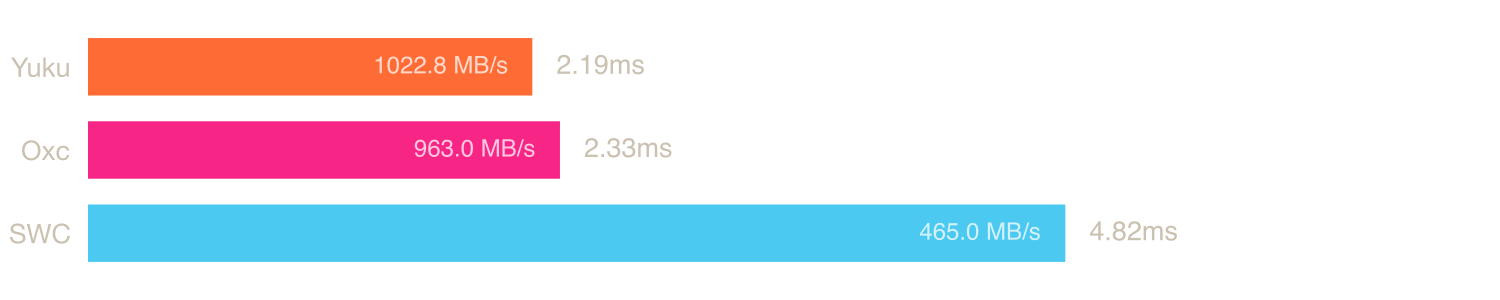
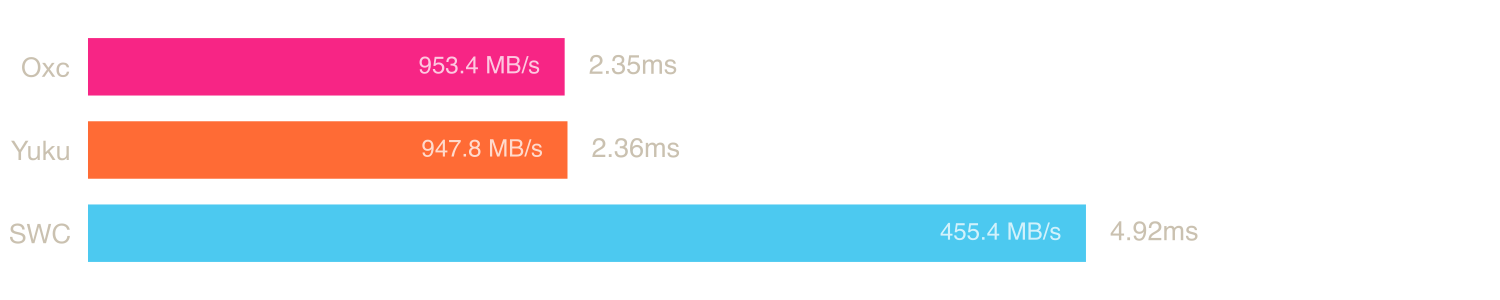
update parsers

Changed region(s): [[0.0, 0.39, 0.46, 0.6], [0.0, 0.12, 0.46, 0.33], [0.6133, 0.66, 0.7973, 0.87]]

diff --git a/README.md b/README.md
@@ -41,9 +41,9 @@ An extensible Rust-based platform for compiling and bundling JavaScript and Type
 
 | Parser | Median | Min | p99 | Relative |
 |--------|--------|-----|-----|----------|
-| Yuku | 17.23 ms | 16.59 ms | 17.70 ms | 1.00× |
-| Oxc | 24.04 ms | 23.84 ms | 25.13 ms | 1.39× |
-| SWC | 42.17 ms | 40.96 ms | 46.41 ms | 2.45× |
+| Yuku | 18.04 ms | 17.97 ms | 21.10 ms | 1.00× |
+| Oxc | 25.11 ms | 24.51 ms | 31.80 ms | 1.39× |
+| SWC | 43.26 ms | 42.57 ms | 47.32 ms | 2.40× |
 
 ### [checker.ts](https://raw.githubusercontent.com/yuku-toolchain/parser-benchmark-files/refs/heads/main/checker.ts)
 
@@ -53,9 +53,9 @@ An extensible Rust-based platform for compiling and bundling JavaScript and Type
 
 | Parser | Median | Min | p99 | Relative |
 |--------|--------|-----|-----|----------|
-| Yuku | 5.72 ms | 5.51 ms | 5.81 ms | 1.00× |
-| Oxc | 7.82 ms | 7.75 ms | 8.65 ms | 1.37× |
-| SWC | 13.65 ms | 13.09 ms | 17.93 ms | 2.39× |
+| Yuku | 6.12 ms | 6.07 ms | 8.85 ms | 1.00× |
+| Oxc | 7.99 ms | 7.93 ms | 8.52 ms | 1.30× |
+| SWC | 14.18 ms | 13.76 ms | 16.04 ms | 2.32× |
 
 ### [lib.dom.d.ts](https://raw.githubusercontent.com/yuku-toolchain/parser-benchmark-files/refs/heads/main/lib.dom.d.ts)
 
@@ -65,9 +65,9 @@ An extensible Rust-based platform for compiling and bundling JavaScript and Type
 
 | Parser | Median | Min | p99 | Relative |
 |--------|--------|-----|-----|----------|
-| Yuku | 2.19 ms | 2.16 ms | 2.42 ms | 1.00× |
-| Oxc | 2.33 ms | 2.31 ms | 2.89 ms | 1.06× |
-| SWC | 4.82 ms | 4.71 ms | 5.38 ms | 2.20× |
+| Oxc | 2.35 ms | 2.32 ms | 2.49 ms | 1.00× |
+| Yuku | 2.36 ms | 2.30 ms | 5.66 ms | 1.01× |
+| SWC | 4.92 ms | 4.82 ms | 5.23 ms | 2.09× |
 
 ### [react.js](https://raw.githubusercontent.com/yuku-toolchain/parser-benchmark-files/refs/heads/main/react.js)
 
@@ -77,9 +77,9 @@ An extensible Rust-based platform for compiling and bundling JavaScript and Type
 
 | Parser | Median | Min | p99 | Relative |
 |--------|--------|-----|-----|----------|
-| Yuku | 0.10 ms | 0.10 ms | 0.11 ms | 1.00× |
-| Oxc | 0.16 ms | 0.16 ms | 0.17 ms | 1.53× |
-| SWC | 0.27 ms | 0.27 ms | 0.29 ms | 2.60× |
+| Yuku | 0.11 ms | 0.11 ms | 0.15 ms | 1.00× |
+| Oxc | 0.16 ms | 0.16 ms | 0.17 ms | 1.47× |
+| SWC | 0.29 ms | 0.28 ms | 0.36 ms | 2.60× |
 
 ## Semantic
 
@@ -95,8 +95,8 @@ The benchmarks below measure parsing followed by this additional pass, which bui
 
 | Parser | Median | Min | p99 | Relative |
 |--------|--------|-----|-----|----------|
-| Yuku + Semantic | 40.85 ms | 40.09 ms | 41.75 ms | 1.00× |
-| Oxc + Semantic | 55.44 ms | 53.81 ms | 98.77 ms | 1.36× |
+| Yuku + Semantic | 44.21 ms | 43.40 ms | 58.75 ms | 1.00× |
+| Oxc + Semantic | 56.34 ms | 55.20 ms | 66.79 ms | 1.27× |
 
 ### [checker.ts](https://raw.githubusercontent.com/yuku-toolchain/parser-benchmark-files/refs/heads/main/checker.ts)
 
@@ -104,8 +104,8 @@ The benchmarks below measure parsing followed by this additional pass, which bui
 
 | Parser | Median | Min | p99 | Relative |
 |--------|--------|-----|-----|----------|
-| Yuku + Semantic | 14.45 ms | 14.15 ms | 15.57 ms | 1.00× |
-| Oxc + Semantic | 18.24 ms | 18.07 ms | 20.38 ms | 1.26× |
+| Yuku + Semantic | 15.88 ms | 15.55 ms | 23.06 ms | 1.00× |
+| Oxc + Semantic | 18.58 ms | 18.35 ms | 19.67 ms | 1.17× |
 
 ### [lib.dom.d.ts](https://raw.githubusercontent.com/yuku-toolchain/parser-benchmark-files/refs/heads/main/lib.dom.d.ts)
 
@@ -113,8 +113,8 @@ The benchmarks below measure parsing followed by this additional pass, which bui
 
 | Parser | Median | Min | p99 | Relative |
 |--------|--------|-----|-----|----------|
-| Yuku + Semantic | 4.07 ms | 4.01 ms | 4.34 ms | 1.00× |
-| Oxc + Semantic | 4.70 ms | 4.58 ms | 6.78 ms | 1.15× |
+| Yuku + Semantic | 4.72 ms | 4.43 ms | 13.02 ms | 1.00× |
+| Oxc + Semantic | 4.76 ms | 4.70 ms | 5.69 ms | 1.01× |
 
 ### [react.js](https://raw.githubusercontent.com/yuku-toolchain/parser-benchmark-files/refs/heads/main/react.js)
 
@@ -122,8 +122,8 @@ The benchmarks below measure parsing followed by this additional pass, which bui
 
 | Parser | Median | Min | p99 | Relative |
 |--------|--------|-----|-----|----------|
-| Yuku + Semantic | 0.25 ms | 0.25 ms | 0.26 ms | 1.00× |
-| Oxc + Semantic | 0.35 ms | 0.34 ms | 0.42 ms | 1.37× |
+| Yuku + Semantic | 0.27 ms | 0.27 ms | 0.33 ms | 1.00× |
+| Oxc + Semantic | 0.35 ms | 0.35 ms | 0.44 ms | 1.29× |
 
 ## Run Benchmarks
 
